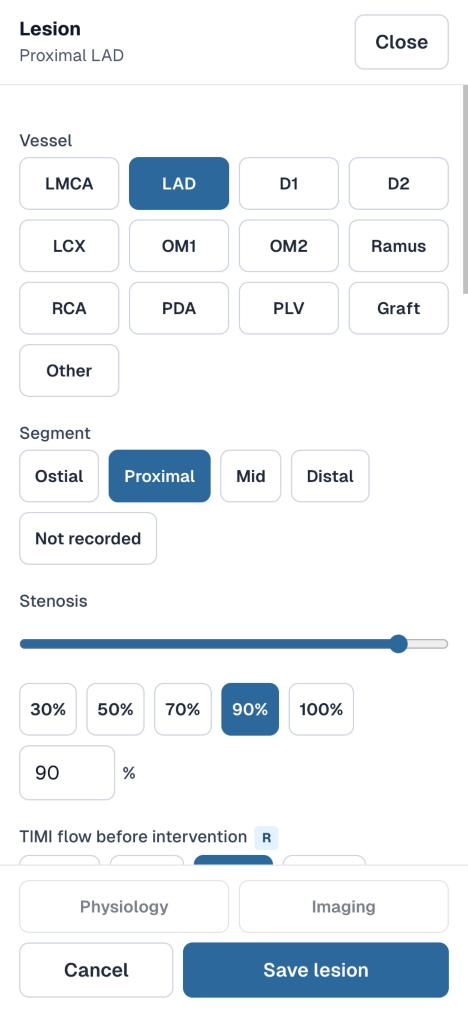
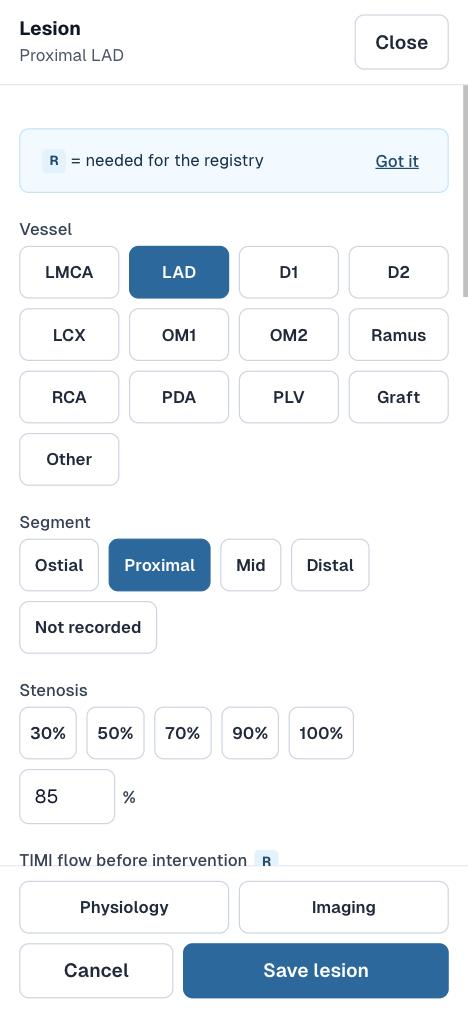
Week 7 step 7: docs — structured-reporting.md (field list, sources, typed vs reserved, corrections after build incl. the Events sheet and the four fixes), README Week 7 + definition of done + current lesion-sheet screenshot, spec pointer to corrections, backlog

diff --git a/docs/structured-reporting.md b/docs/structured-reporting.md
@@ -1,0 +1,237 @@
+# Structured reporting fields (Week 7)
+
+Spec: [week7-structured-reporting-spec.md](week7-structured-reporting-spec.md). Registry mapping:
+[registry-mapping.md](registry-mapping.md). FHIR: [fhir-mapping.md §7](fhir-mapping.md).
+
+Weeks 1–6 built a correct record: patient → findings → interventions → devices → complications →
+discharge. Week 7 adds what a cath report and a PCI registry also expect:
+- lesion morphology;
+- pressure-wire physiology and intravascular imaging;
+- left-heart haemodynamics and LV function detail;
+- bypass grafts;
+- technique and bifurcation strategy, and the inflation log;
+- procedural events with their treatment;
+- indication detail and STEMI times;
+- in-hospital outcomes recorded yes / no / not recorded.
+
+It does this **without turning the report into a 40-field form**: each group is a sheet opened from
+the part of the report it describes.
+
+> Every value has a source. This week every value is **typed** or **picked** by a person; the same
+> columns are ready for a viewer, a QCA module or a haemodynamic system to write later, with a
+> different `source` and the image it was measured on.
+
+## Where things are entered
+
+| Sheet | Opened from | Capture step |
+|---|---|---|
+| Lesion | "Edit lesion" on a finding; registry links | 3 — "Details" per saved row |
+| Physiology & imaging (two tabs) | "Physiology & imaging" on a finding; the Lesion sheet | via the Lesion sheet |
+| Haemodynamics & LV | Coronary anatomy, "Edit haemodynamics & LV" | 5 |
+| Grafts | Coronary anatomy, "+ Graft" / "Edit grafts" (shown when previous CABG = yes, or a graft exists) | 3 |
+| Intervention & devices (detail, events, inflation log) | each intervention, "Edit intervention & devices" | 4 — one link per intervention |
+| Events | Complications, "Edit procedural events" (for a study with no intervention) | 5 |
+| Indication & outcome (two tabs) | Presentation, "Edit indication detail"; In-hospital outcomes, "Edit outcomes" | 2 (Indication), 6 (Outcome) |
+
+The sheets edit a draft, or a reviewed record with an open amendment (Week 6). That's the same rule
+as the capture form, enforced again by the database. A reviewed record shows the values and no edit
+links. Opening a sheet is part of the URL (`?sheet=…&row=…&tab=…`), so a link can open it and a phone's
+Back button closes it.
+
+**Patterns, the same in every sheet** (owner's review of the lesion sheet, 18 Oct 2026):
+- every choice is a big button (44 px); every typed number has its unit beside it;
+- an optional value has an explicit **Not recorded** choice;
+- a three-state block (left heart, LVEF) has **Not recorded / Not performed / Recorded**;
+- a yes/no stored as `boolean default false` shows **neither** button until tapped. An untouched "No"
+  would look like a recorded finding. It still saves `false` (backlog: tri-state in Week 7b);
+- TIMI is written 0 / 1 / 2 / 3, never in Roman numerals;
+- red is kept for "needs attention" (the door-to-device > 120 min box, errors). Medina and the
+  wall-motion bullseye use ink and grey;
+- "R" marks a registry element, with a dismissible "R = needed for the registry" line;
+- Close, Cancel and Escape ask "Discard changes?" only when something changed.
+
+The report header shows **Registry · n of 42**. Opening it lists the missing elements, each a link to
+the sheet or step that holds it, under the line "modelled on CathPCI v5; NIC mapping pending". The
+list is never called "NIC fields". Sign-off warns about missing elements but is never blocked by them.
+
+## Field list
+
+**Source column.** **R**: one of the 42 registry elements (modelled on NCDR CathPCI v5 concepts; see
+[registry-mapping.md](registry-mapping.md)). **V**: a field vendor cath-report systems commonly
+capture (syngo Dynamics, Merge Cardio, Philips, Change/Optum, all CathPCI-mapped). This is the
+spec's comparison; I haven't checked it against any one vendor's schema. **H**: Hrudaya's own, for
+traceability.
+
+**Today column.** **typed** or **picked**: entered by a person this week. **reserved**: no screen
+writes it yet; it's waiting for a feed.
+
+### Lesion (`vessel_findings`)
+
+| Field | Source | Today |
+|---|---|---|
+| ACC/AHA lesion class A / B1 / B2 / C | R (treated lesions), V | picked |
+| Lesion length (mm) | R (treated lesions), V | typed |
+| Ostial, bifurcation + Medina (drawn as a Y), tortuosity, CTO + duration, in-stent restenosis + pattern | V | picked / typed |
+| Collaterals (Rentrop 0–3), corrected TIMI frame count | V | picked / typed |
+| Graft lesion → its graft (`graft_id`) | V | picked |
+| Stenosis % source (`stenosis_source`) | H | typed / picked |
+| MLD, RVD (mm); measurement method (visual / QCA manual / QCA automatic) | V | reserved (QCA, Week 12) |
+| Image traceability: study / series / instance UID, frame, view | H | reserved (viewer, Weeks 11–12) |
+
+**Traceability contract** (agreed with the viewer side): a measured value names
+1. the lesion,
+2. the image (its DICOM UIDs),
+3. the frame,
+4. pre or post,
+5. the method,
+6. its `source`.
+
+A module that can't supply 1–5 writes nothing.
+
+### Physiology (`lesion_physiology`) and imaging (`intravascular_imaging`)
+
+| Field | Source | Today |
+|---|---|---|
+| FFR / iFR / RFR / dPR / resting Pd/Pa, pre or post, value 0.00–1.00 | R (intermediate lesions), V | typed |
+| Hyperaemic agent + dose; decision defer / treat | V | picked / typed |
+| Method pressure wire / angiography-derived (QFR-type) | H | pressure wire; angiography-derived reserved (licence) |
+| IVUS / OCT / NIRS-IVUS, pre or post: MLA, EEM, plaque burden, calcium arc and thickness, lipid arc, maxLCBI, MSA, expansion, malapposition, edge dissection, pullback length | R (intermediate lesions), V | typed |
+| Pullback UIDs, MLA frame, tracing method | H | reserved (pullback, Week 12) |
+
+The sheet shows a value below the usual cut-off (FFR < 0.80, iFR/RFR < 0.89) in amber, as information
+rather than a verdict. Post-stent expansion is suggested from the MSA and the lesion's reference
+diameter, never set automatically.
+
+### Haemodynamics and LV
+
+| Field | Source | Today |
+|---|---|---|
+| Left heart (`haemodynamics`): status, aortic systolic / diastolic / mean, LV systolic, LVEDP | V | typed (three-state) |
+| Heart rate and rhythm at measurement | V | typed / picked |
+| LVEF + source + date (Week 1 columns) | R | typed (three-state) |
+| Mitral regurgitation grade 0–4, LV-gram performed | V | picked |
+| Wall motion, AHA 17 segments (`lv_wall_motion`, abnormal segments only) | V | picked (bullseye) |
+| Right heart, valves, shunts | — | deferred to Week 7b ([backlog](backlog.md)) |
+
+### Grafts, intervention, devices
+
+| Field | Source | Today |
+|---|---|---|
+| Graft type, target, sequential, patency, stenosis %, lesion location, CABG year | V | picked / typed |
+| Techniques (balloon / stent / advanced chips; "other" + text) | R, V | picked |
+| Bifurcation strategy (EBC terms; only for a bifurcation lesion) | V | picked |
+| Guide catheter, wires (several) | R (guide), V | typed |
+| Failure reason, dissection grade (NHLBI A–F), perforation class (Ellis), no-reflow, stent overlap, total stent length | V | picked / typed |
+| Inflation log per device (`device_inflations`: atm, seconds) | V | typed |
+
+### Procedural events and in-hospital outcomes
+
+| Field | Source | Today |
+|---|---|---|
+| Event type (extended list), time, grade per type, treatments, resolution | V | picked |
+| Outcomes, each yes / no / not recorded: MI, stroke, death (+ cause), bleeding (+ BARC), transfusion, vascular (+ which), AKI (+ creatinine after), new dialysis, emergency CABG, tamponade, unplanned repeat PCI | R | picked |
+| Disposition | R | picked |
+| Outcome ← event links ("Record as outcome") | H | picked |
+
+The outcome rules (spec §2.11) are enforced in the database:
+- death = yes goes with disposition and post-procedure condition both "deceased", and with no discharge;
+- an event of a type rules out "no" for the matching outcome.
+
+AKI is suggested from the creatinine rise (≥ 26.5 µmol/L or ≥ 1.5×), never set.
+
+### Indication
+
+| Field | Source | Today |
+|---|---|---|
+| CCS (not for STEMI), NYHA, stress test + result, cardiogenic shock, cardiac arrest, previous PCI / CABG, thrombolysis | R | picked |
+| STEMI: symptom onset, first medical contact, door, first device | R | typed |
+| Door-to-device | R | **derived, never stored**. Green ≤ 90 min, amber ≤ 120, red > 120 |
+
+## Database (migration 0011)
+
+- **Value source:** `value_source` (typed, picked, scanned, measured_viewer, pullback, hemo_system,
+  xray_dose, phone, generated); every new table has `source`, `recorded_by`, `recorded_at` and `notes`.
+- **Yes / no / not recorded:** `tri_state` for every outcome; nothing defaults to "no".
+- **Rules:** "present only when" rules are CHECK constraints. The §2.11 rules that span tables are
+  deferred constraint triggers that re-check the procedure's current state at commit.
+- **Reviewed records:** `guard_reviewed_child` covers all seven new tables. Deletes are allowed
+  while a record is a draft or has an open amendment.
+- **Amendment snapshot:** `procedure_snapshot` includes every new table. SQL and TypeScript match
+  for 24 of 24 local and 21 of 21 production cases, so an amendment lists Week 7 changes with
+  before/after.
+- **Registry:** `registry_completeness(procedure_id)` → filled, total (42), missing keys, over the
+  same list as `lib/registry/nic-elements.ts`.
+- **Kept in step:** the old columns (aortic pressure, LVEDP, guidewire) stay. The Haemodynamics
+  sheet writes them too, and `wires[1]` writes `guidewire`.
+- **Undo:** `supabase/undo/0011_undo.sql` returns the schema to 0010. It's safe only before Week 7
+  data worth keeping exists. Rehearsed: the schema came back identical except the 11 event-type
+  values Postgres can't drop.
+
+## Tests and results (18 Oct 2026)
+
+- **SQL behaviour:** 79 checks in `supabase/tests/0011_behaviour.sql`, all pass, also on the new
+  seed. The earlier probes pass too: 0001 17 (fixed for the current schema), 0008 20, 0009 55.
+- **Snapshot parity:** TypeScript = SQL for 24/24 local cases with Week 7 data, and 21/21 on
+  production. Two deliberate breaks to the TypeScript snapshot, one to the sort key and one to the
+  graft key, were each caught.
+- **Unit tests:** 161 pass. They include 5 Week 7 diff tests, 3 registry-list tests (TypeScript =
+  SQL, same keys and order) and 7 Week 7 FHIR mapper tests.
+- **FHIR:** HL7 validator 7.0.1, 0 errors on 24 local cases with Week 7 data and on 21 production
+  cases. 41 of 41 coded concepts verify on tx.fhir.org.
+- **Seed:** 24 cases, with every §6 scenario checked in the database.
+- **Browser, local, 390 px emulated and 1280 px:** every sheet used with real taps and typing, and
+  every save confirmed in the database. Reviewed records show no edit links. Re-saving capture steps
+  4 and 5 kept all Week 7 rows. Not yet tried on a real phone.
+
+## Corrections after build
+
+The spec's sections are unchanged; what was built differs here. Owner decisions are dated.
+
+- **Event time is the existing `onset_at`**: no separate `occurred_at` (owner, 18 Oct). **Arrhythmia
+  is one value**, with its type (VF / VT / complete heart block / AF with compromise) in `grade`;
+  `significant_arrhythmia` was dropped (owner).
+- **Registry wording:** the header reads "Registry · n of 42" with "modelled on CathPCI v5; NIC
+  mapping pending". The 42 names aren't verified against an official NIC dictionary, and the owner
+  reviews them before anything is posted (owner).
+- **Right heart, valves and shunts** are deferred to Week 7b; §1's mention of a right-heart seed case
+  was corrected (owner).
+- **An Events sheet** for a study with no intervention. The spec puts events in the Intervention &
+  devices sheet, but events belong to the procedure, so a diagnostic-only case needs its own way in.
+  The sheet reuses the same section.
+- **Capture steps open the same sheets** (§3.8) rather than repeating their fields inline. Both write
+  the same tables. A step remounts after a sheet saves, so a stale form can't overwrite the sheet.
+- **Aortic pressure and LVEDP moved** from capture step 3 to the Haemodynamics & LV sheet (step 5),
+  which keeps the old columns in step.
+- **Linked events in the Outcome tab** appear under the outcome their type suggests. `event_links`
+  is one list per outcomes row, with no per-outcome key.
+- **Four fixes made while testing:**
+  1. **Capture steps 4 and 5 replaced rows on every save.** That would have deleted Week 7 data:
+     techniques, inflation logs, event treatments and outcome links. They now update saved rows in
+     place and only insert or delete what changed. Verified by re-saving both steps: same ids, nothing
+     lost.
+  2. **LVEDP "not performed" survives the Haemodynamics sheet.** The left block has one status for
+     all its values, so a save without LVEDP had turned the seeded "not performed" into "not
+     recorded". The old column now changes only when the sheet says something about LVEDP.
+  3. **A death is all-or-nothing.** When "death = yes" was refused because a discharge exists, the
+     procedure had already been set to deceased. It's now refused before anything changes, and the
+     condition is restored if the outcome save fails.
+  4. **The wire placeholder isn't copied as a wire.** The seed stores "Not recorded" in the required
+     Week 1 `guidewire`, and 0011 had copied it into `wires`. It now copies real wire names only:
+     1 of 19 locally, 2 on production.
+- **Graft-link check is `NOT VALID`**, found while rehearsing the undo. A graft finding recorded
+  before 0011 would have made the migration fail. The check still applies to every row written from
+  now on. Production had none.
+- **The seed carries the §6 scenarios** that no existing story had in four new cases, PCI-2026-022
+  to 025 (owner, 18 Oct). Cases 001–020 keep their reviewed stories; their Week 7 values are listed
+  under "Week 7 additions" in the case files.
+- **FHIR:**
+  - FFR/iFR values, invasive pressures, BARC, Rentrop, lesion class and Medina have no verifiable
+    code and ship as text.
+  - Techniques go in `Procedure.usedCode` as text, because SNOMED's codes for them are procedures.
+  - Indication detail and STEMI times aren't mapped yet (backlog).
+
+## Not built (backlog)
+
+- Week 7b: the right-heart, valve and shunt blocks; yes/no columns moved to tri-state.
+- FHIR for indication detail and STEMI times; per-resource narrative (dom-6).
+- The registry export (Week 8); the owner's review of the 42 names.

diff --git a/README.md b/README.md
@@ -39,7 +39,7 @@ Requires **Node 22.18 or later** (the seed script runs TypeScript directly) and 
    ```
 2. Copy `.env.example` to `.env.local` and fill in the three values from Supabase →
    Project Settings → API. The service-role key stays on your machine; the app never uses it.
-3. Apply the migrations in order (`0001` to `0010`; `0009` must be applied on its own, before `0010`). For a local database, `supabase start`
+3. Apply the migrations in order (`0001` to `0011`; `0009` must be applied on its own, before `0010`). For a local database, `supabase start`
    (needs Docker) applies them all. For a hosted project, either paste each file from
    `supabase/migrations/` into the Supabase SQL editor, or with the Supabase CLI:
    ```bash
@@ -47,7 +47,7 @@ Requires **Node 22.18 or later** (the seed script runs TypeScript directly) and 
    ```
 4. Create a user: Supabase → Authentication → Users → **Add user** (email and password).
    There is no public sign-up page.
-5. Load the 20 synthetic cases (safe to re-run; existing cases are skipped):
+5. Load the 24 synthetic cases (safe to re-run; existing cases are skipped):
    ```bash
    npm run seed
    ```
@@ -82,6 +82,11 @@ After a schema change, regenerate `lib/database.types.ts` with
 | `lib/amendments/` | Week 6: record snapshot, field-level diff, open/close logic |
 | `components/amendments/` | Week 6: Amend dialog, signing page, Amendments card |
 | `docs/amendments.md` | Week 6: how a reviewed record is amended — rules, SQL contracts, tests |
+| `components/report/sheets/` | Week 7: the side sheets (lesion, physiology & imaging, haemodynamics & LV, grafts, intervention & devices, events, indication & outcome) |
+| `lib/registry/` | Week 7: the 42 registry elements and where each is entered |
+| `docs/structured-reporting.md` | Week 7: field list, sources, what is typed vs reserved for feeds, corrections |
+| `docs/registry-mapping.md` | Week 7: the registry elements, modelled on NCDR CathPCI v5 concepts |
+| `supabase/undo/` | Undo scripts for migrations (0011), rehearsed locally |
 | `app/procedures/` | List, detail (cath report) and the 6-step capture form |
 
 ## Week 1 definition of done
@@ -411,6 +416,69 @@ From [docs/week6-amendments-spec.md §6](docs/week6-amendments-spec.md):
 - [ ] Owner read-through: Pavan amends one seeded case on his phone with a real reason and signs
   the diff
 
+## Week 7 — Structured reporting fields
+
+Every field a vendor cath report or a PCI registry asks for can now be recorded where a clinician
+would look for it, with its source. The report doesn't turn into a 40-field form: each group is a
+**sheet opened from the part of the report it describes**. Write-up:
+[docs/structured-reporting.md](docs/structured-reporting.md).
+
+- **Seven sheets:**
+  - **Lesion:** class, Medina drawn as a Y, CTO, ISR, Rentrop.
+  - **Physiology & imaging:** FFR/iFR, IVUS/OCT/NIRS.
+  - **Haemodynamics & LV:** left heart and the 17-segment bullseye.
+  - **Grafts.**
+  - **Intervention & devices:** technique chips, bifurcation strategy, grading, procedural events
+    with treatment and resolution, and the inflation log.
+  - **Events:** for a study with no intervention.
+  - **Indication & outcome:** CCS/NYHA, STEMI times with door-to-device, and in-hospital outcomes
+    recorded **yes / no / not recorded**, never defaulted to "no".
+
+  On a phone each sheet is a full-screen page; on a laptop it's a 420 px side panel. The capture
+  steps open the same sheets.
+- **Registry · n of 42** in the report header lists what is missing, each item a link to its sheet.
+  The 42 elements are modelled on NCDR CathPCI v5 concepts; the NIC mapping is pending
+  ([docs/registry-mapping.md](docs/registry-mapping.md)). Sign-off warns but never blocks.
+- **All in SQL (0011):**
+  - a `value_source` on every new value, so a future viewer, QCA or hemo-system feed can write the
+    same columns;
+  - image traceability columns (UIDs, frame, view, method);
+  - "present only when" rules as CHECKs;
+  - outcome rules across tables;
+  - reviewed records stay read-only;
+  - amendments list Week 7 changes.
+
+  An undo script was rehearsed locally before 0011 went to production.
+- **FHIR:**
+  - new Observations for physiology, imaging, grafts, LV detail and outcomes;
+  - techniques as `Procedure.usedCode`;
+  - the discharge disposition on the Encounter;
+  - 0 validator errors.
+
+  Codes are verified or text-only (FFR has no LOINC code).
+
+| Lesion sheet (phone) |
+|---|
+| ![Lesion sheet on a phone](docs/images/week7-phone-lesion-sheet.jpg) |
+
+## Week 7 definition of done
+
+From [docs/week7-structured-reporting-spec.md §6](docs/week7-structured-reporting-spec.md):
+
+- [x] 0011 applies cleanly on a fresh database and on production (18 Oct 2026); nothing renamed or
+  dropped; snapshot parity SQL = TypeScript for 21/21 production and 24/24 local cases
+- [x] Amending a reviewed case can change any Week 7 field and the diff lists it with before/after
+- [x] All seven sheets work at 390 px (emulated) and on a laptop; every enum has a picker; every
+  optional block offers "Not performed"; every outcome is tri-state; no new required field
+- [x] Registry list and `docs/registry-mapping.md` kept separate (owner review of the 42 names pending)
+- [x] Report header shows the registry count; each missing element links to its sheet
+- [x] Seed: 24 cases, with every §6 scenario (four new cases, 022–025, for the ones no story had)
+- [ ] FHIR: 0 errors on all cases and codes verified or text-only (done); HAPI round-trip not re-run
+  (posts to a public server; waiting for the owner's go)
+- [ ] AI summary v7: audit on all cases; the FFR-deferred case says the lesion was not stented and why
+- [x] `docs/structured-reporting.md`; this section with a screenshot
+- [ ] Owner: phone-test the sheets; enter a post-CABG and a STEMI case by hand
+
 ## Roadmap
 
 - **Week 1 — built and deployed:** schema with RLS and audit columns, 6-step capture form, list and detail pages, 20 synthetic cases. Remaining checks above.
@@ -419,6 +487,7 @@ From [docs/week6-amendments-spec.md §6](docs/week6-amendments-spec.md):
 - **Week 4 — AI discharge summary, built:** six languages, audit, clinician approval, print report. Remaining checks above.
 - **Week 5 — Reviewer experience, built:** structured editor, compare with record, flags beside sections. Remaining checks above.
 - **Week 6 — Amendments, built:** reason, snapshot, signed diff, re-review; superseded summaries; FHIR `amended` + Provenance. Owner phone test remaining.
+- **Week 7 — Structured reporting, built:** lesion, physiology and imaging, haemodynamics and LV, grafts, technique and events, indication and tri-state outcomes; registry count; FHIR. Summary v7 and the owner phone test remaining.
 - **Next:** ABDM (Week 3, waiting on sandbox credentials), form navigation for the capture steps, tighter row-level security.
 
 ## Licence

diff --git a/docs/week7-structured-reporting-spec.md b/docs/week7-structured-reporting-spec.md
@@ -3,6 +3,8 @@
 > Goal: every field a vendor cath report captures — and every field the NIC and NCDR CathPCI registries ask for — can be recorded in Hrudaya, in the same place a clinician would look for it, with its source. Lesion morphology, physiology (FFR/iFR), intravascular imaging (IVUS/OCT/NIRS), left-heart haemodynamics, LV function detail, bypass grafts, technique and bifurcation strategy, inflation log, indication detail (CCS/NYHA/STEMI timings), procedural events with their treatment, and in-hospital outcomes recorded as yes / no / not recorded. Right-heart, valve and shunt reporting are deferred (backlog) — they are beyond the coronary MVP.
 > Why: Weeks 1–6 built a correct record with a strong spine (patient → findings → interventions → devices → complications → discharge). Compared field-by-field with syngo Dynamics, Merge Cardio, Philips and Change/Optum structured reporting (all mapped to NCDR CathPCI v5), Hrudaya is at roughly 60% of the element set. The missing 40% is what hospital IT and registry coordinators check first, and what an interventional cardiologist expects to be able to write down. This week closes that gap **without turning the UI into a 40-field form**: every new group is a side sheet opened from the thing it describes.
 
+> **Corrections after build (18 Oct 2026):** what was built differs from this spec in the places listed in [structured-reporting.md → Corrections after build](structured-reporting.md#corrections-after-build).
+
 Drop this at `docs/week7-structured-reporting-spec.md`. Read `docs/week1-spec.md` §3 (tables, three-state `measurement_status` rule), `supabase/migrations/0005_dapt_meds_signoff_times.sql` (`guard_reviewed_child`), `0007_safety_access_communication_measurements.sql` (how optional measurements are modelled), and `docs/fhir-mapping.md` §1 first.
 
 ## 0. Why this week matters (read this, Pavan)

diff --git a/docs/backlog.md b/docs/backlog.md
@@ -128,6 +128,18 @@ as further `*_status` blocks without renaming anything; each block follows the t
   `tri_state` (yes / no / not recorded) with a migration that maps existing `true` → yes and leaves
   existing `false` as not recorded unless the record says otherwise.
 
+## Found while building Week 7 (structured reporting)
+
+- **FHIR for indication detail and STEMI times.** CCS, NYHA, stress test, shock, arrest, previous
+  PCI/CABG and the four STEMI times are recorded but not yet in the Bundle.
+- **Outcome links per outcome.** `in_hospital_outcomes.event_links` is one list per row, so the
+  Outcome tab can only place a linked event under the outcome its type suggests. A link table
+  (outcome, event) would say exactly which event explains which outcome.
+- **HAPI round-trip after Week 7.** Not re-run: it posts a Bundle to the public test server, so it
+  waits for the owner's go.
+- **Seed cases 022–025 on production.** Only on a fresh database so far; adding them to production
+  is a data change for the owner to approve.
+
 ## Data corrections (owner-approved, synthetic records)
 
 - **2026-10-15: red flags and PCI-2026-005 timeline.** Data only, no schema change. Applied to
